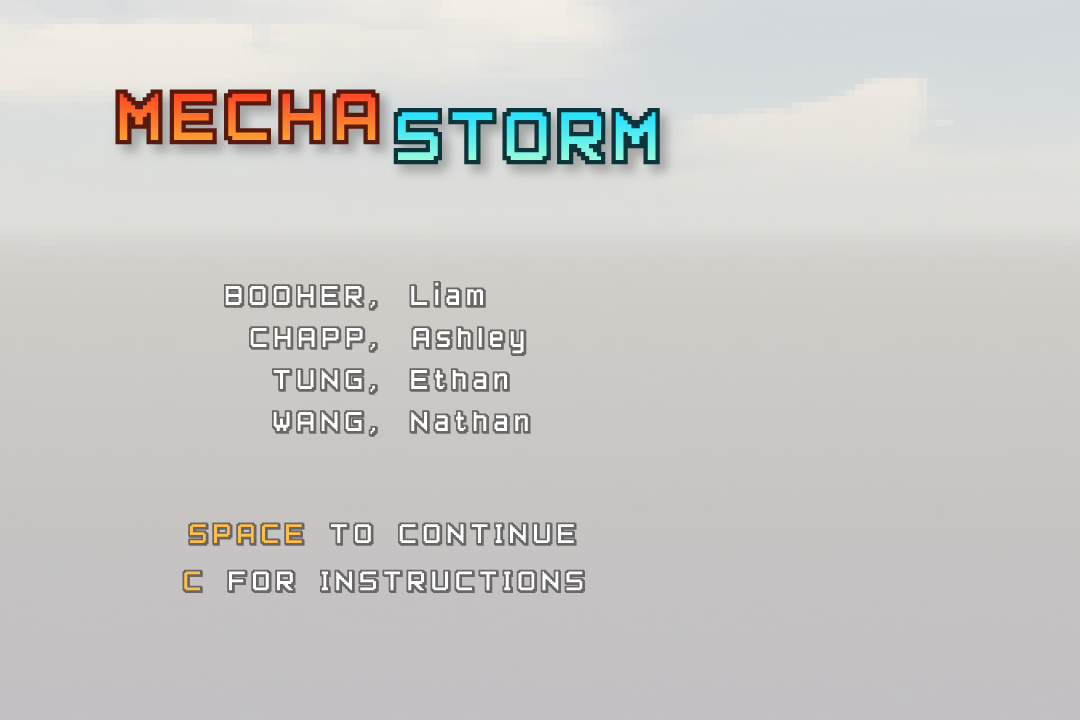
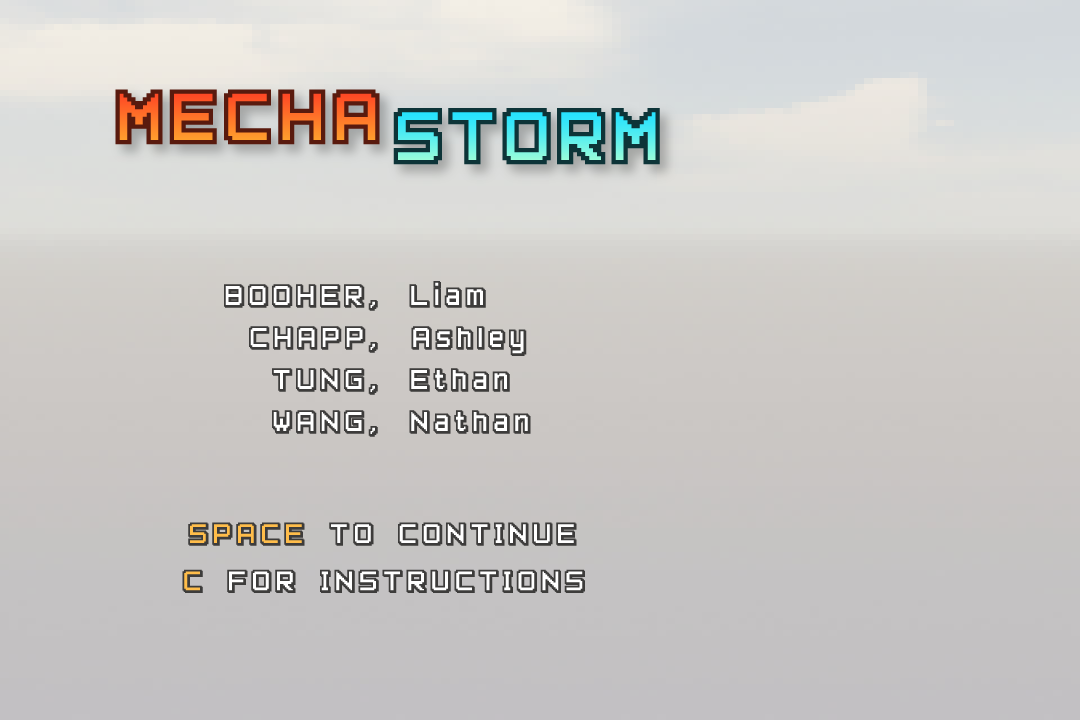
completed UI

diff --git a/src/scenes/Menu.js b/src/scenes/Menu.js
@@ -2,42 +2,81 @@ class Menu extends Phaser.Scene {
     constructor() {
         super("menuScene");
     }
-    create() {
 
-        this.cursors = this.input.keyboard.createCursorKeys();
+    preload() {
 
-        // font config
-        
-        let menuConfig = {
-
-            fontFamily: 'pixelfont',
-            fontSize: '36px',
-            color: '#FFFFFF',
-            stroke: '#000000',
-            strokeThickness: 3,
-            align: 'center'
-
-        }
-
-        // ui
-    
-        menuConfig.fontSize = '24px';
-        this.add.text(1080 / 2, 720 / 2 - 150, 'ARROW KEYS TO MOVE', menuConfig).setOrigin(0.5);
-        this.add.text(1080 / 2, 720 / 2 - 125, 'Z TO SLASH', menuConfig).setOrigin(0.5);
-        this.add.text(1080 / 2, 720 / 2 - 100, 'X TO SHOOT', menuConfig).setOrigin(0.5);
-        this.add.text(1080 / 2, 720 / 2 - 75, 'SHIFT OR CTRL TO AIM/MOVE SLOW', menuConfig).setOrigin(0.5);
-        this.add.text(1080 / 2, 720 / 2 - 50, 'SPACE AT FULL POWER TO TRANSFORM', menuConfig).setOrigin(0.5);
-        this.add.text(1080 / 2, 720 / 2 - 25, 'R TO RESTART', menuConfig).setOrigin(0.5);
-
-        menuConfig.fontSize = '36px';
-        this.add.text(1080 / 2, 720 / 2 + 50, 'PRESS SPACE TO CONTINUE', menuConfig).setOrigin(0.5);
+        this.load.image('instructions', './assets/MainMenu.png');
+        this.load.image('credits', './assets/Credits.png');
+        this.load.image('tower', './assets/TowerMenu.png');
+        this.load.audio('button', ['assets/placeholderSwordShot.wav']);
 
     }
 
-    update() {
+    create() {
 
-        if (this.cursors.space.isDown) {
-            this.scene.start("playScene");  
+        this.startKey = this.input.keyboard.addKey(Phaser.Input.Keyboard.KeyCodes.SPACE);
+        this.creditsKey = this.input.keyboard.addKey(Phaser.Input.Keyboard.KeyCodes.C);
+        this.buttonSound = this.sound.add('button', {volume: 0.4});
+
+        // ui
+    
+        this.homeScreen = this.add.image(0, 0, 'instructions').setOrigin(0,0);
+        this.creditsScreen = this.add.image(0, 0, 'credits').setOrigin(0,0);
+        this.creditsScreen.alpha = 0;
+        this.towerScroll = this.add.tileSprite(850, 360, 0, 0, 'tower').setOrigin(0.5,0.5);
+
+        this.transition = this.add.rectangle(0, 0, 1080, 720, 0x000000).setOrigin(0, 0);
+        this.transition.alpha = 0;
+
+    }
+
+    update(delta) {
+
+        this.universalScroll = 1;
+        this.towerScroll.tilePositionY -= 0.25;
+
+        if (Phaser.Input.Keyboard.JustDown(this.startKey)) {
+
+            this.buttonSound.play();
+
+            this.tweens.addCounter({
+
+                from: 0,
+                to: 1,
+                duration: 100,
+                ease: Phaser.Math.Easing.Linear,
+                loop: 0,
+                onUpdate: tween => {
+
+                    this.transitionValue = tween.getValue();
+                    this.transition.alpha = this.transitionValue;
+                        
+                },
+                onComplete: tween => {
+
+                    this.scene.start("playScene");
+
+                }
+
+            }); 
+  
+        }
+
+        if (Phaser.Input.Keyboard.JustDown(this.creditsKey)) {
+
+            this.buttonSound.play();
+
+            if (this.creditsScreen.alpha == 0) {
+
+                this.creditsScreen.alpha = 1;
+                this.homeScreen.alpha = 0;
+
+            } else if (this.creditsScreen.alpha == 1) {
+
+                this.creditsScreen.alpha = 0;
+                this.homeScreen.alpha = 1;
+
+            }
   
         }
 

diff --git a/src/scenes/Play.js b/src/scenes/Play.js
@@ -1403,7 +1403,31 @@ class Play extends Phaser.Scene {
         this.victorySfx.stop();
         this.registry.destroy();
         this.events.off();
-        this.scene.restart();
+
+        this.transition = this.add.rectangle(0, 0, 1080, 720, 0x000000).setOrigin(0, 0);
+        this.transition.alpha = 0;
+
+        this.tweens.addCounter({
+
+            from: 0,
+            to: 1,
+            duration: 100,
+            ease: Phaser.Math.Easing.Linear,
+            loop: 0,
+            onUpdate: tween => {
+
+                this.transitionValue = tween.getValue();
+                this.transition.alpha = this.transitionValue;
+                    
+            },
+            onComplete: tween => {
+
+                this.scene.restart();
+
+            }
+
+        }); 
+
     }
 
     closestGroup(group) {
